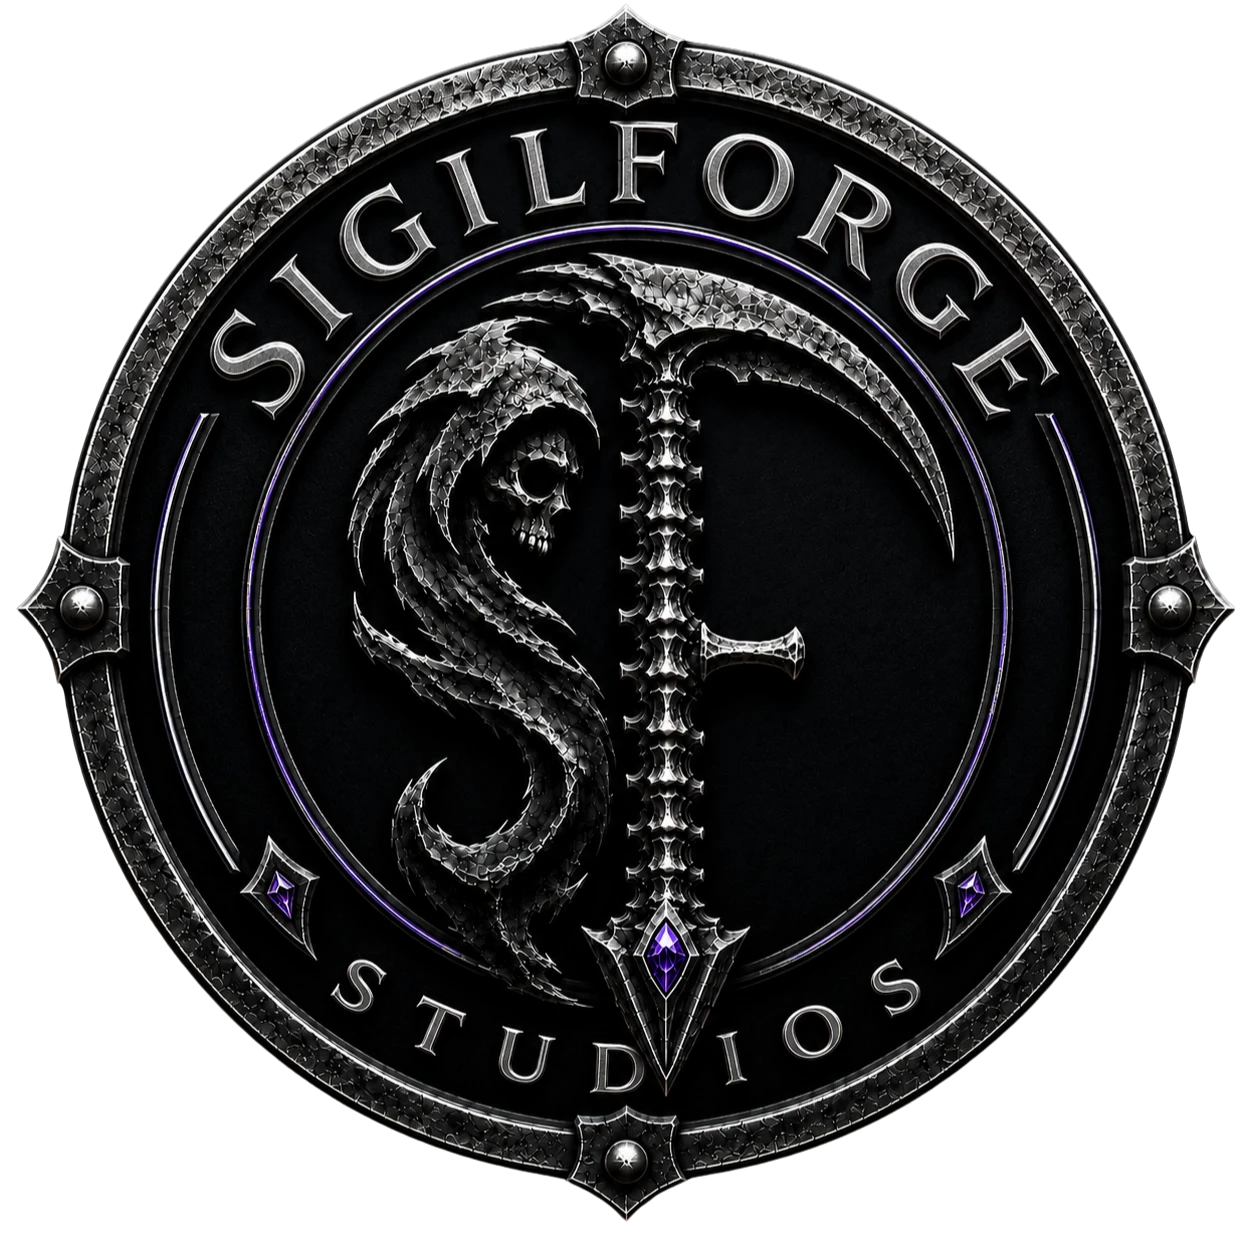
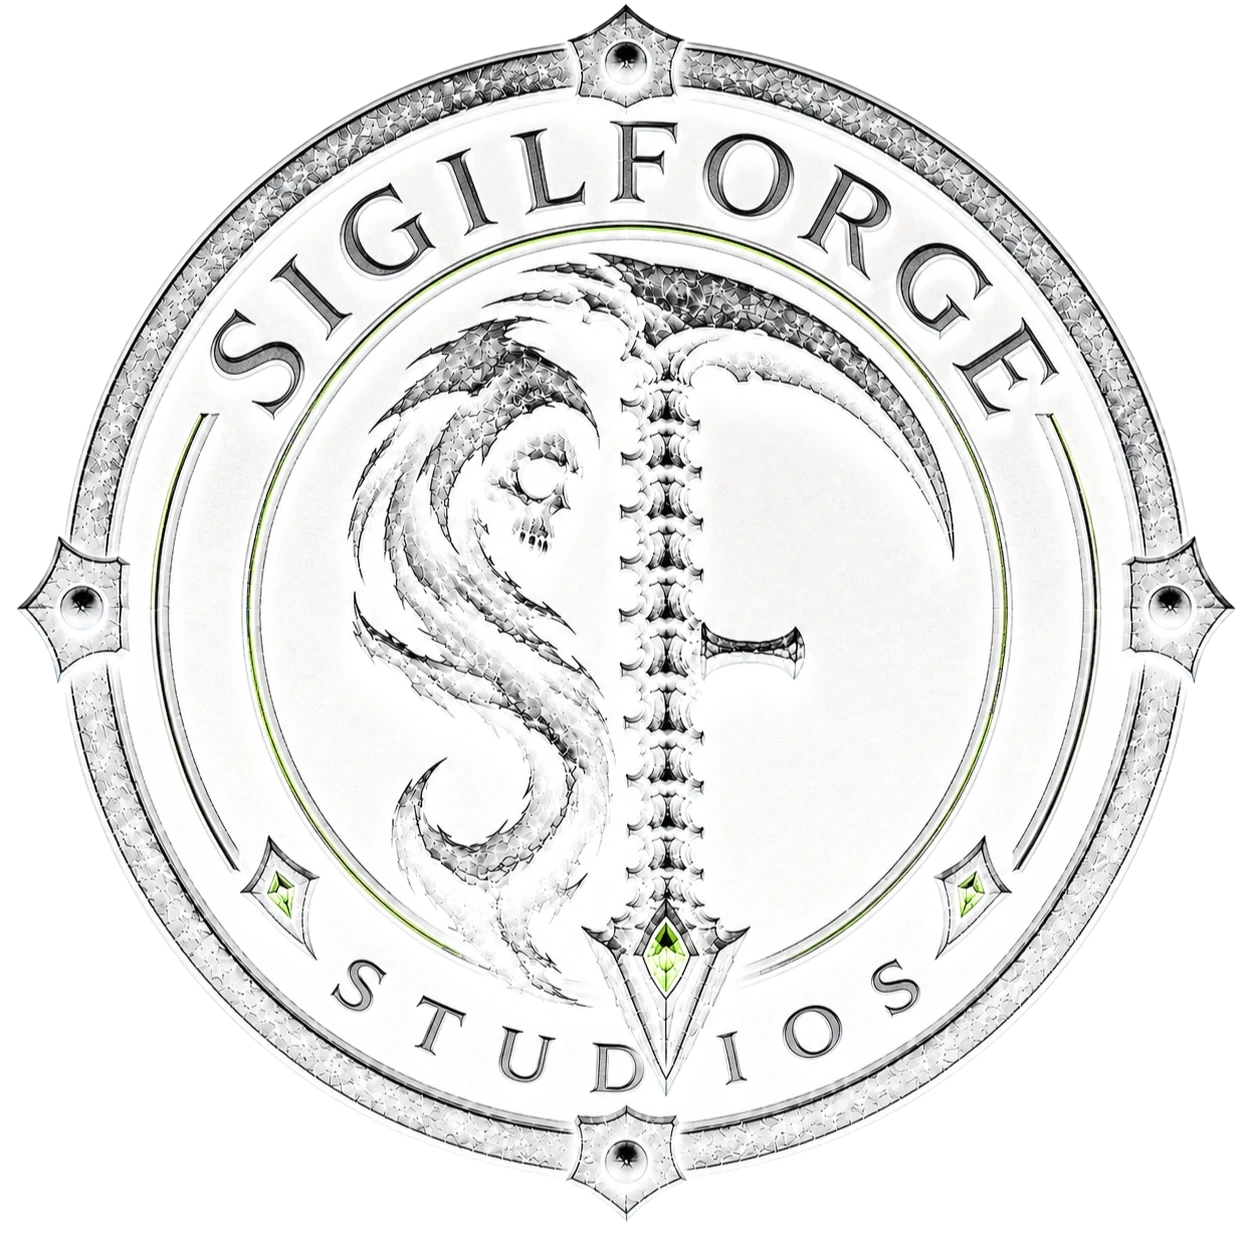
Fix high-contrast preview assets for Studio seal and Creator Rights card

diff --git a/studio/index.html b/studio/index.html
@@ -130,7 +130,7 @@
   <section class="pathways" id="pathways"><header><p class="eyebrow">Choose a doorway</p><h2>Pick the reason you are here.</h2><a href="/studio/projects/">View all projects →</a></header>
     <div class="pathway-grid">
       <a class="pathway shelf-path" href="/studio/shelf/"><img src="/studio/assets/site-cards/studio-door-narrative.webp?v=20260712-srcfix1" alt="CradlePoint published shelf artwork" width="1200" height="675" loading="eager"><span>Published shelf</span><h3>Start with the flagship.</h3><p>Book One is live. Tabletop releases, dossiers, and future Studio editions open from the same shelf.</p><b>Open the Shelf →</b></a>
-      <a class="pathway rights-path" href="/studio/creator-rights/"><img src="/assets/social/creator-rights-record-og.webp?v=20260728-rights-card3" alt="Creator Rights Record verification card" width="1200" height="675" loading="eager"><span>Creator rights</span><h3>Register a product.</h3><p>Publish a permanent rights record with AI-use terms, licensing posture, QR links, and machine-readable metadata.</p><b>Open Creator Rights →</b></a>
+      <a class="pathway rights-path" href="/studio/creator-rights/"><img src="/assets/social/creator-rights-record-og.webp?v=20260728-rights-card5" alt="Creator Rights Record verification card" width="1200" height="675" loading="eager"><span>Creator rights</span><h3>Register a product.</h3><p>Publish a permanent rights record with AI-use terms, licensing posture, QR links, and machine-readable metadata.</p><b>Open Creator Rights →</b></a>
       <a class="pathway web-path" href="/studio/web-design/"><img src="/studio/assets/social/web-design-dev-workspace.webp?v=20260723-web1" alt="Small-business website design workspace" width="1200" height="630" loading="lazy"><span>Client services</span><h3>Build a sharper site.</h3><p>Focused small-business web design for clear, mobile-first public surfaces with launch support.</p><b>Explore web design →</b></a>
       <a class="pathway funding-path" href="/studio/funding/"><img src="/studio/assets/site-cards/studio-door-funding.webp?v=20260712-srcfix1" alt="Funding strategy concept art" width="1200" height="806" loading="lazy"><span>Funding + partners</span><h3>Review the next layer.</h3><p>Funding, publishing, technology, and partnership evidence for serious conversations.</p><b>Open the Funding Case →</b></a>
     </div>

diff --git a/studio/press/index.html b/studio/press/index.html
@@ -26,7 +26,7 @@
   <link rel="apple-touch-icon" href="/studio/assets/brand/apple-touch-icon.png">
   <link rel="preconnect" href="https://fonts.googleapis.com">
   <link rel="preconnect" href="https://fonts.gstatic.com" crossorigin>
-  <link rel="stylesheet" href="/studio/studio.css?v=20260724-sigilforge1">
+  <link rel="stylesheet" href="/studio/studio.css?v=20260728-sigilforge2">
   <script defer src="/_vercel/insights/script.js"></script>
 </head>
 <body class="subpage page-shell">
@@ -170,7 +170,7 @@ As a solo founder he has already produced IP, multi-book rules systems, shipping
           </div>
         </article>
         <article class="asset-card">
-          <div class="preview seal-preview"><img src="/studio/assets/brand/sigilforge-branded-round-badge.webp?v=20260728-press-seal3" alt="SigilForge Studios official branded round seal badge" width="1254" height="1254" loading="lazy"></div>
+          <div class="preview seal-preview"><img src="/studio/assets/brand/sigilforge-branded-round-badge-nobg.webp?v=20260728-press-seal5" alt="SigilForge Studios official branded round seal badge" width="1254" height="1254" loading="lazy"></div>
           <div class="meta">
             <h3>Official Branded Round Seal</h3>
             <p>Circular seal emblem featuring full studio wordmark typography and central scythe shield iconography.</p>

diff --git a/studio/studio.css b/studio/studio.css
@@ -419,6 +419,10 @@ footer nav a:hover {
   background: #f4f2ef;
 }
 
+.asset-card .preview.light-preview img {
+  filter: invert(1) brightness(0.86) contrast(1.08);
+}
+
 .asset-card .preview.wordmark-preview img {
   width: 100%;
   max-height: none;
@@ -1060,6 +1064,19 @@ footer > p {
 .rights-qr-panel .toolbar,
 .rights-license-intake .gate-list {
   margin-top: .75rem;
+}
+
+.rights-verification-panel {
+  display: grid;
+  gap: .75rem;
+}
+
+.rights-verification-panel .proof-row {
+  margin-top: .1rem;
+}
+
+.rights-verification-panel .rights-facts {
+  margin-top: .4rem;
 }
 
 .permission-grid {
